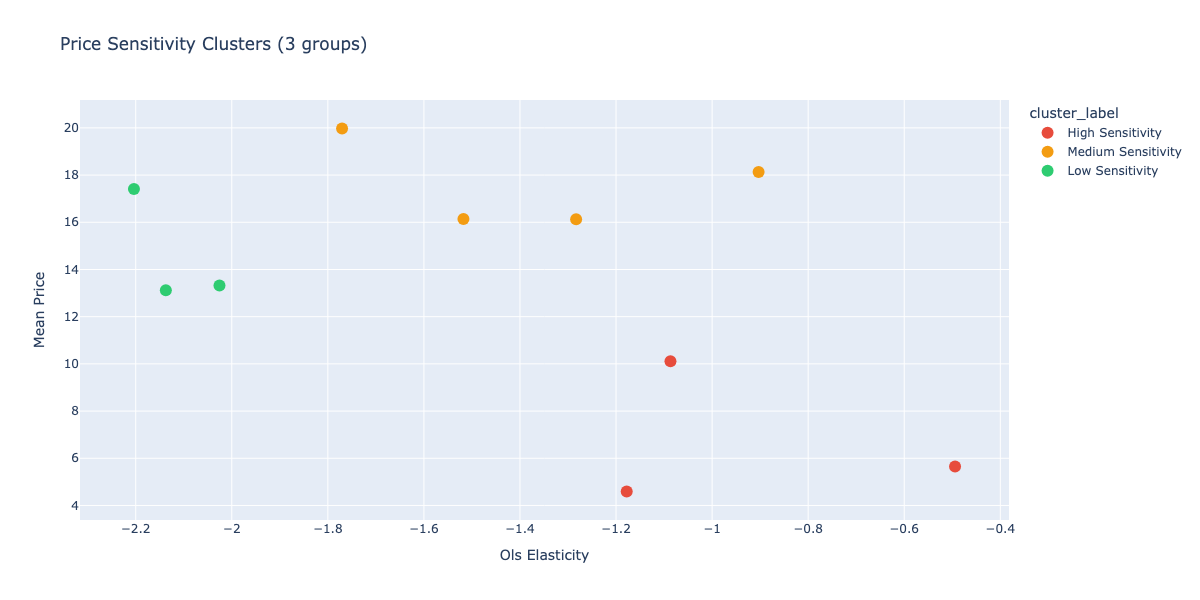
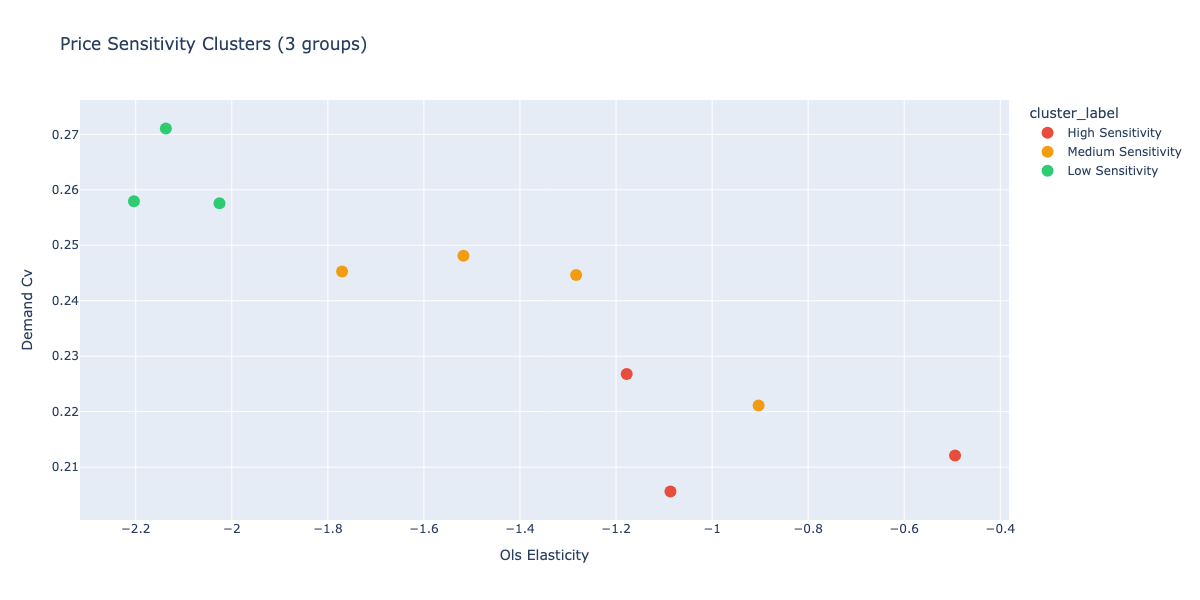
fix column mapping for units_sold and week_num — all 17 analysis plots now generating correctly

diff --git a/analysis/factor_decay.py b/analysis/factor_decay.py
@@ -55,14 +55,14 @@ def compute_elasticity_autocorrelation(df, max_lag=10):
 
     for product_id in df["product_id"].unique():
         prod_df = df[df["product_id"] == product_id].copy()
-        if "week" not in prod_df.columns or len(prod_df) < max_lag + 5:
+        if "week_num" not in prod_df.columns or len(prod_df) < max_lag + 5:
             continue
 
-        prod_df = prod_df.sort_values("week")
+        prod_df = prod_df.sort_values("week_num")
 
-        if "price" in prod_df.columns and "demand" in prod_df.columns:
+        if "price" in prod_df.columns and "units_sold" in prod_df.columns:
             price_chg = prod_df["price"].pct_change().replace([np.inf, -np.inf], np.nan)
-            demand_chg = prod_df["demand"].pct_change().replace([np.inf, -np.inf], np.nan)
+            demand_chg = prod_df["units_sold"].pct_change().replace([np.inf, -np.inf], np.nan)
             elasticity = (demand_chg / price_chg).replace([np.inf, -np.inf], np.nan)
             elasticity = elasticity.dropna()
 
@@ -233,9 +233,9 @@ def compute_ic_decay(df, ols_df, bayesian_df, horizons=[1, 2, 4, 8]):
 
             future_demand = []
             for pid in valid["product_id"]:
-                prod_df = df[df["product_id"] == pid].sort_values("week") if "week" in df.columns else df[df["product_id"] == pid]
+                prod_df = df[df["product_id"] == pid].sort_values("week_num") if "week_num" in df.columns else df[df["product_id"] == pid]
                 if len(prod_df) > horizon:
-                    future_demand.append(prod_df["demand"].iloc[-1] if "demand" in prod_df.columns else np.nan)
+                    future_demand.append(prod_df["units_sold"].iloc[-1] if "units_sold" in prod_df.columns else np.nan)
                 else:
                     future_demand.append(np.nan)
 
@@ -299,12 +299,12 @@ def compute_elasticity_stability(df, ols_df):
     stability_records = []
     for product_id in df["product_id"].unique():
         prod_df = df[df["product_id"] == product_id].copy()
-        if "price" not in prod_df.columns or "demand" not in prod_df.columns:
+        if "price" not in prod_df.columns or "units_sold" not in prod_df.columns:
             continue
         if len(prod_df) < 10:
             continue
 
-        prod_df = prod_df.sort_values("week") if "week" in prod_df.columns else prod_df
+        prod_df = prod_df.sort_values("week_num") if "week_num" in prod_df.columns else prod_df
 
         mid = len(prod_df) // 2
         first_half = prod_df.iloc[:mid]
@@ -312,7 +312,7 @@ def compute_elasticity_stability(df, ols_df):
 
         def calc_elasticity(chunk):
             p_chg = chunk["price"].pct_change().replace([np.inf, -np.inf], np.nan)
-            d_chg = chunk["demand"].pct_change().replace([np.inf, -np.inf], np.nan)
+            d_chg = chunk["units_sold"].pct_change().replace([np.inf, -np.inf], np.nan)
             e = (d_chg / p_chg).replace([np.inf, -np.inf], np.nan).dropna()
             return float(e.mean()) if len(e) > 0 else np.nan
 
@@ -388,20 +388,20 @@ def compute_seasonal_elasticity(df):
     """
     results = {}
 
-    if "week" not in df.columns or "price" not in df.columns or "demand" not in df.columns:
+    if "week_num" not in df.columns or "price" not in df.columns or "units_sold" not in df.columns:
         return results
 
     df = df.copy()
-    df["quarter"] = ((df["week"] - 1) // 13 % 4 + 1).astype(int)
-    df["month_in_year"] = ((df["week"] - 1) % 52 // 4 + 1).astype(int)
+    df["quarter"] = ((df["week_num"] - 1) // 13 % 4 + 1).astype(int)
+    df["month_in_year"] = ((df["week_num"] - 1) % 52 // 4 + 1).astype(int)
 
-    price_chg = df.groupby(["product_id", "week"])["price"].first().groupby("product_id").pct_change()
-    demand_chg = df.groupby(["product_id", "week"])["demand"].first().groupby("product_id").pct_change()
+    price_chg = df.groupby(["product_id", "week_num"])["price"].first().groupby("product_id").pct_change()
+    demand_chg = df.groupby(["product_id", "week_num"])["units_sold"].first().groupby("product_id").pct_change()
 
     elasticity = (demand_chg / price_chg).replace([np.inf, -np.inf], np.nan).reset_index()
-    elasticity.columns = ["product_id", "week", "elasticity"]
-    elasticity = elasticity.merge(df[["product_id", "week", "quarter"]].drop_duplicates(),
-                                   on=["product_id", "week"], how="left")
+    elasticity.columns = ["product_id", "week_num", "elasticity"]
+    elasticity = elasticity.merge(df[["product_id", "week_num", "quarter"]].drop_duplicates(),
+                                   on=["product_id", "week_num"], how="left")
 
     quarterly = elasticity.groupby("quarter")["elasticity"].agg(["mean", "std", "count"]).reset_index()
     quarterly.columns = ["quarter", "mean_elasticity", "std_elasticity", "n_obs"]

diff --git a/analysis/advanced_eda.py b/analysis/advanced_eda.py
@@ -106,13 +106,13 @@ def demand_seasonality_heatmap(df):
     """Demand seasonality heatmap — products vs weeks."""
     results = {}
 
-    if "week" not in df.columns or "demand" not in df.columns:
+    if "week_num" not in df.columns or "units_sold" not in df.columns:
         return results
 
     pivot = df.pivot_table(
         index="product_id",
-        columns="week",
-        values="demand",
+        columns="week_num",
+        values="units_sold",
         aggfunc="mean"
     )
 
@@ -137,10 +137,10 @@ def demand_seasonality_heatmap(df):
     save_fig(fig, "eda_demand_seasonality_heatmap")
 
     weekly_avg = pivot.mean(axis=0).reset_index()
-    weekly_avg.columns = ["week", "avg_demand"]
+    weekly_avg.columns = ["week_num", "avg_demand"]
     fig2 = go.Figure()
     fig2.add_trace(go.Scatter(
-        x=weekly_avg["week"],
+        x=weekly_avg["week_num"],
         y=weekly_avg["avg_demand"],
         mode="lines",
         fill="tozeroy",
@@ -149,7 +149,7 @@ def demand_seasonality_heatmap(df):
         name="Avg Demand",
     ))
     fig2.add_vline(
-        x=int(weekly_avg.loc[weekly_avg["avg_demand"].idxmax(), "week"]),
+        x=int(weekly_avg.loc[weekly_avg["avg_demand"].idxmax(), "week_num"]),
         line_dash="dash", line_color="red",
         annotation_text="Peak demand"
     )
@@ -179,8 +179,8 @@ def price_sensitivity_clustering(df, ols_df, n_clusters=3):
 
     features = ols_df[["product_id", "ols_elasticity"]].dropna().copy()
 
-    if "demand" in df.columns:
-        demand_stats = df.groupby("product_id")["demand"].agg(["mean", "std"]).reset_index()
+    if "units_sold" in df.columns:
+        demand_stats = df.groupby("product_id")["units_sold"].agg(["mean", "std"]).reset_index()
         demand_stats.columns = ["product_id", "mean_demand", "std_demand"]
         demand_stats["demand_cv"] = demand_stats["std_demand"] / demand_stats["mean_demand"]
         features = features.merge(demand_stats, on="product_id", how="left")
@@ -264,17 +264,17 @@ def demand_distribution_by_tier(df, ols_df):
     df_merged = df_merged.dropna(subset=["tier"])
     df_merged["tier"] = df_merged["tier"].astype(str)
 
-    if len(df_merged) == 0 or "demand" not in df_merged.columns:
+    if len(df_merged) == 0 or "units_sold" not in df_merged.columns:
         return results
 
-    tier_stats = df_merged.groupby("tier", observed=True)["demand"].agg(["mean", "std", "median"]).reset_index()
+    tier_stats = df_merged.groupby("tier", observed=True)["units_sold"].agg(["mean", "std", "median"]).reset_index()
     tier_stats.columns = ["tier", "mean_demand", "std_demand", "median_demand"]
     results["tier_demand_stats"] = tier_stats.to_dict(orient="records")
 
     fig = go.Figure()
     colors = {"Low Elasticity": "#2ecc71", "Medium Elasticity": "#f39c12", "High Elasticity": "#e74c3c"}
     for tier in df_merged["tier"].unique():
-        tier_data = df_merged[df_merged["tier"] == tier]["demand"].dropna()
+        tier_data = df_merged[df_merged["tier"] == tier]["units_sold"].dropna()
         fig.add_trace(go.Violin(
             y=tier_data,
             name=str(tier),
@@ -300,10 +300,10 @@ def detect_outlier_products(df, ols_df):
     """Identify products with unusual demand or elasticity patterns."""
     results = {}
 
-    if "demand" not in df.columns:
+    if "units_sold" not in df.columns:
         return results
 
-    product_stats = df.groupby("product_id")["demand"].agg(
+    product_stats = df.groupby("product_id")["units_sold"].agg(
         ["mean", "std", "min", "max"]
     ).reset_index()
     product_stats.columns = ["product_id", "mean_demand", "std_demand", "min_demand", "max_demand"]

diff --git a/analysis/statistical.py b/analysis/statistical.py
@@ -329,8 +329,8 @@ def optimization_analysis(opt_results, df):
     )
     save_fig(fig, "optimization_comparison")
 
-    if df is not None and "price" in df.columns and "demand" in df.columns:
-        demand_stats = df.groupby("product_id")["demand"].agg(
+    if df is not None and "price" in df.columns and "units_sold" in df.columns:
+        demand_stats = df.groupby("product_id")["units_sold"].agg(
             ["mean", "std", "min", "max"]
         ).reset_index()
         demand_stats.columns = ["product_id", "mean_demand",
@@ -354,27 +354,27 @@ def optimization_analysis(opt_results, df):
 
 
 def price_demand_analysis(df):
-    if df is None or "price" not in df.columns or "demand" not in df.columns:
+    if df is None or "price" not in df.columns or "units_sold" not in df.columns:
         return {}
 
     results = {}
 
     corr, p = stats.pearsonr(
-        df["price"].dropna(), df["demand"].dropna()
+        df["price"].dropna(), df["units_sold"].dropna()
     )
     rho, rho_p = stats.spearmanr(
-        df["price"].dropna(), df["demand"].dropna()
+        df["price"].dropna(), df["units_sold"].dropna()
     )
     results["price_demand_correlation"] = {
         "pearson_r": round(float(corr), 4),
         "pearson_p": round(float(p), 4),
         "spearman_rho": round(float(rho), 4),
         "spearman_p": round(float(rho_p), 4),
-        "n_observations": int(len(df.dropna(subset=["price", "demand"]))),
+        "n_observations": int(len(df.dropna(subset=["price", "units_sold"]))),
     }
 
     results["price_stats"] = describe_series(df["price"].dropna(), "Price")
-    results["demand_stats"] = describe_series(df["demand"].dropna(), "Demand")
+    results["demand_stats"] = describe_series(df["units_sold"].dropna(), "Demand")
 
     fig = make_subplots(
         rows=2, cols=2,
@@ -390,22 +390,22 @@ def price_demand_analysis(df):
     ), row=1, col=1)
 
     fig.add_trace(go.Histogram(
-        x=df["demand"].dropna(), name="Demand",
+        x=df["units_sold"].dropna(), name="Demand",
         marker_color="#e74c3c", showlegend=False,
     ), row=1, col=2)
 
     sample = df.sample(min(2000, len(df)), random_state=42)
     fig.add_trace(go.Scatter(
-        x=sample["price"], y=sample["demand"],
+        x=sample["price"], y=sample["units_sold"],
         mode="markers",
         marker=dict(color="#9b59b6", size=3, opacity=0.4),
         name="Price-Demand", showlegend=False,
     ), row=2, col=1)
 
-    if "week" in df.columns:
-        weekly = df.groupby("week")["demand"].mean().reset_index()
+    if "week_num" in df.columns:
+        weekly = df.groupby("week_num")["units_sold"].mean().reset_index()
         fig.add_trace(go.Scatter(
-            x=weekly["week"], y=weekly["demand"],
+            x=weekly["week_num"], y=weekly["units_sold"],
             mode="lines", line=dict(color="#2ecc71", width=2),
             name="Avg Weekly Demand", showlegend=False,
         ), row=2, col=2)
